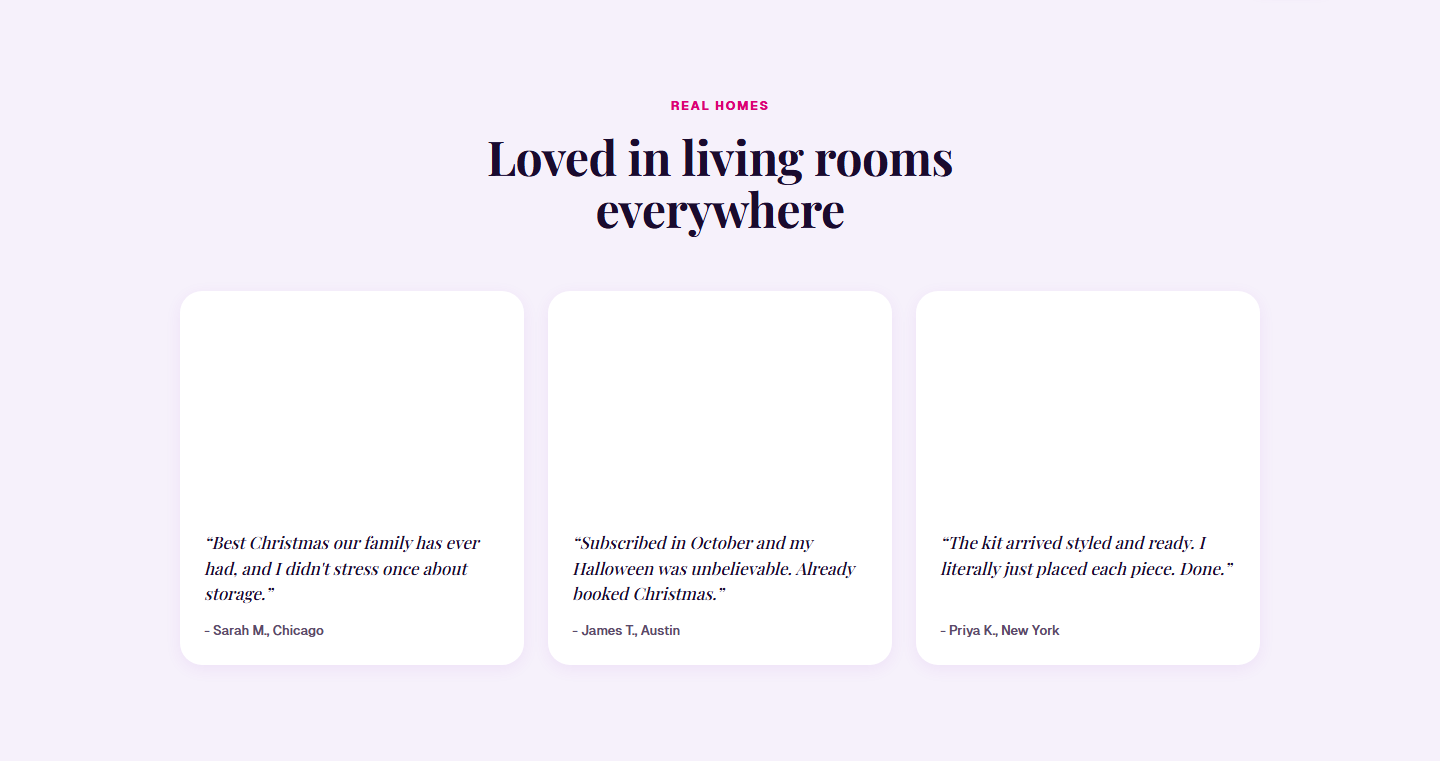
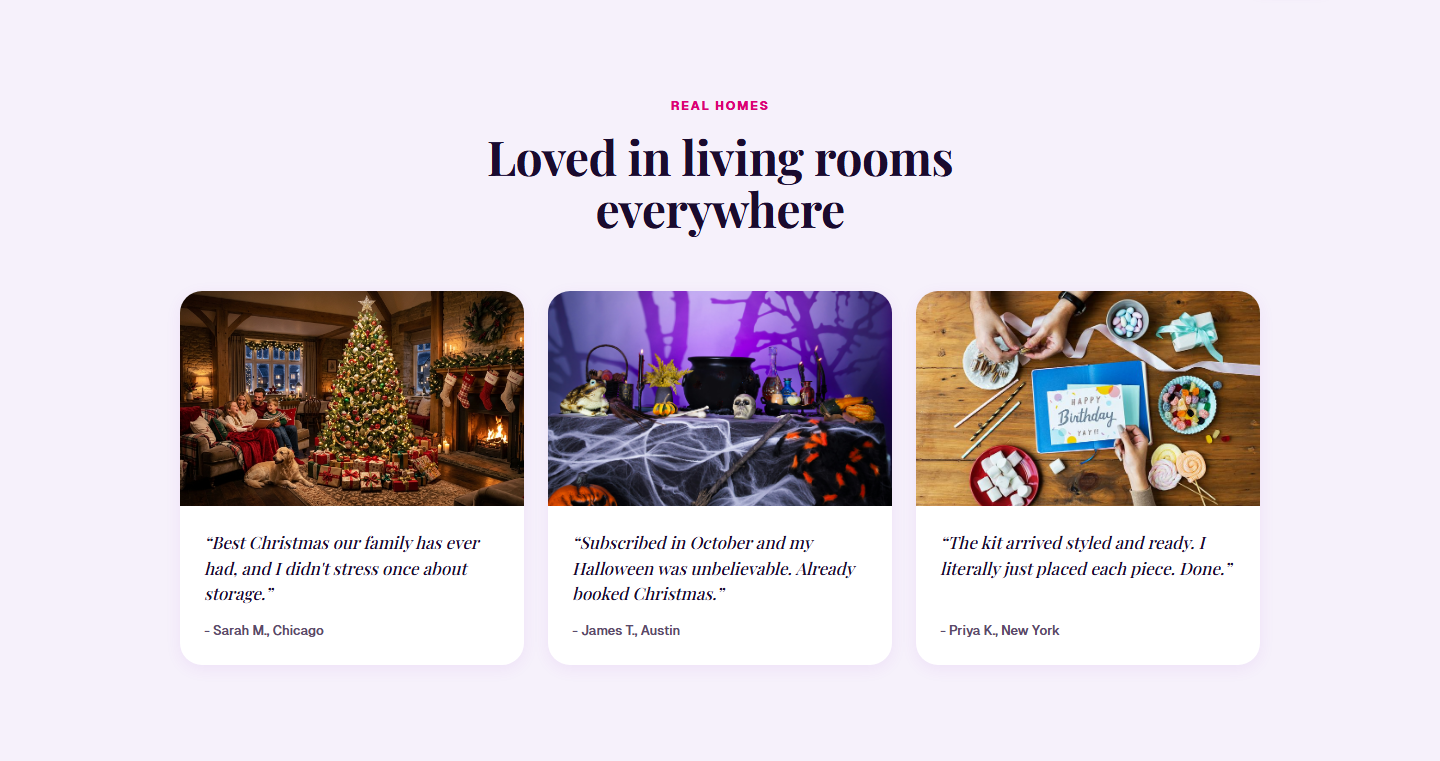
perf(images): strip Railway backend URL from how-it-works, subscription, and auth pages to eliminate network timeouts and load instantly from Netlify CDN

Changed region(s): [[0.125, 0.3627, 0.875, 0.6649]]

diff --git a/frontend/src/app/(auth)/signin/page.tsx b/frontend/src/app/(auth)/signin/page.tsx
@@ -1,33 +1,31 @@
 import Link from "next/link";
 import { SigninForm } from "./form";
 
-const baseURL = "";
-
 const holidayImages = [
-    { src: `${baseURL}/uploads/holidays/christmas.png`, name: "Christmas", span: "tall" },
-    { src: `${baseURL}/uploads/holidays/halloween.png`, name: "Halloween", span: "" },
-    { src: `${baseURL}/uploads/holidays/diwali.png`, name: "Diwali", span: "" },
-    { src: `${baseURL}/uploads/holidays/nowruz.png`, name: "Nowruz", span: "" },
-    { src: `${baseURL}/uploads/holidays/hanukkah.png`, name: "Hanukkah", span: "" },
-    { src: `${baseURL}/uploads/holidays/easter.png`, name: "Easter", span: "wide" },
-    { src: `${baseURL}/uploads/holidays/eid.png`, name: "Eid", span: "" },
-    { src: `${baseURL}/uploads/holidays/new-years.png`, name: "New Years", span: "" },
+    { src: `/uploads/holidays/christmas.png`, name: "Christmas", span: "tall" },
+    { src: `/uploads/holidays/halloween.png`, name: "Halloween", span: "" },
+    { src: `/uploads/holidays/diwali.png`, name: "Diwali", span: "" },
+    { src: `/uploads/holidays/nowruz.png`, name: "Nowruz", span: "" },
+    { src: `/uploads/holidays/hanukkah.png`, name: "Hanukkah", span: "" },
+    { src: `/uploads/holidays/easter.png`, name: "Easter", span: "wide" },
+    { src: `/uploads/holidays/eid.png`, name: "Eid", span: "" },
+    { src: `/uploads/holidays/new-years.png`, name: "New Years", span: "" },
 ];
 
 const holidayPills = [
-    { src: `${baseURL}/uploads/holidays/christmas.png`, name: "Christmas" },
-    { src: `${baseURL}/uploads/holidays/diwali.png`, name: "Diwali" },
-    { src: `${baseURL}/uploads/holidays/halloween.png`, name: "Halloween" },
-    { src: `${baseURL}/uploads/holidays/hanukkah.png`, name: "Hanukkah" },
-    { src: `${baseURL}/uploads/holidays/nowruz.png`, name: "Nowruz" },
-    { src: `${baseURL}/uploads/holidays/eid.png`, name: "Eid" },
+    { src: `/uploads/holidays/christmas.png`, name: "Christmas" },
+    { src: `/uploads/holidays/diwali.png`, name: "Diwali" },
+    { src: `/uploads/holidays/halloween.png`, name: "Halloween" },
+    { src: `/uploads/holidays/hanukkah.png`, name: "Hanukkah" },
+    { src: `/uploads/holidays/nowruz.png`, name: "Nowruz" },
+    { src: `/uploads/holidays/eid.png`, name: "Eid" },
 ];
 
 const proofImages = [
-    { src: `${baseURL}/uploads/holidays/christmas.png`, label: "" },
-    { src: `${baseURL}/uploads/holidays/diwali.png`, label: "" },
-    { src: `${baseURL}/uploads/holidays/halloween.png`, label: "" },
-    { src: `${baseURL}/uploads/holidays/new-years.png`, label: "" },
+    { src: `/uploads/holidays/christmas.png`, label: "" },
+    { src: `/uploads/holidays/diwali.png`, label: "" },
+    { src: `/uploads/holidays/halloween.png`, label: "" },
+    { src: `/uploads/holidays/new-years.png`, label: "" },
 ];
 
 export default function Signin() {

diff --git a/frontend/verify_home_testimonials.js b/frontend/verify_home_testimonials.js
@@ -1,15 +1,16 @@
 const { chromium } = require('playwright');
 
 (async () => {
-  console.log("Capturing live home page testimonials section...");
+  console.log("Capturing live home page testimonials section with scroll into view...");
   const browser = await chromium.launch({ headless: true });
   const page = await browser.newPage({ viewport: { width: 1440, height: 900 } });
   
   await page.goto('https://celebrease.com', { waitUntil: 'networkidle' });
-  await page.waitForTimeout(2000);
   
   const section = await page.$('.cb-testimonials');
   if (section) {
+    await section.scrollIntoViewIfNeeded();
+    await page.waitForTimeout(3000);
     await section.screenshot({ path: 'screenshots_live_verification/living_rooms_everywhere.png' });
     console.log("Saved screenshots_live_verification/living_rooms_everywhere.png");
   } else {

diff --git a/frontend/src/app/(main)/how-it-works/page.tsx b/frontend/src/app/(main)/how-it-works/page.tsx
@@ -6,10 +6,9 @@ import { ApiHoliday, baseURL, getHolidays } from "@/lib/api";
 
 const img = (path?: string | null) => {
     if (!path) return "";
+    if (path.includes("/uploads/")) return path.substring(path.indexOf("/uploads/"));
     if (path.startsWith("http")) return path;
-    if (path.startsWith("/uploads")) return `${baseURL}${path}`;
-    if (path.startsWith("/")) return path;
-    return `${baseURL}/${path}`;
+    return path.startsWith("/") ? path : `/${path}`;
 };
 
 export const metadata: Metadata = { title: "How It Works, CeleBrease" };

diff --git a/frontend/src/app/(main)/subscription/page.tsx b/frontend/src/app/(main)/subscription/page.tsx
@@ -52,10 +52,9 @@ const COMPARE_ROWS: Array<{
 
 function imgSrc(path?: string | null) {
     if (!path) return "";
+    if (path.includes("/uploads/")) return path.substring(path.indexOf("/uploads/"));
     if (path.startsWith("http")) return path;
-    if (path.startsWith("/uploads")) return `${baseURL}${path}`;
-    if (path.startsWith("/")) return path;
-    return `${baseURL}/${path}`;
+    return path.startsWith("/") ? path : `/${path}`;
 }
 
 /* Mosaic card layout, first 2 holidays get span-2 large cards */
